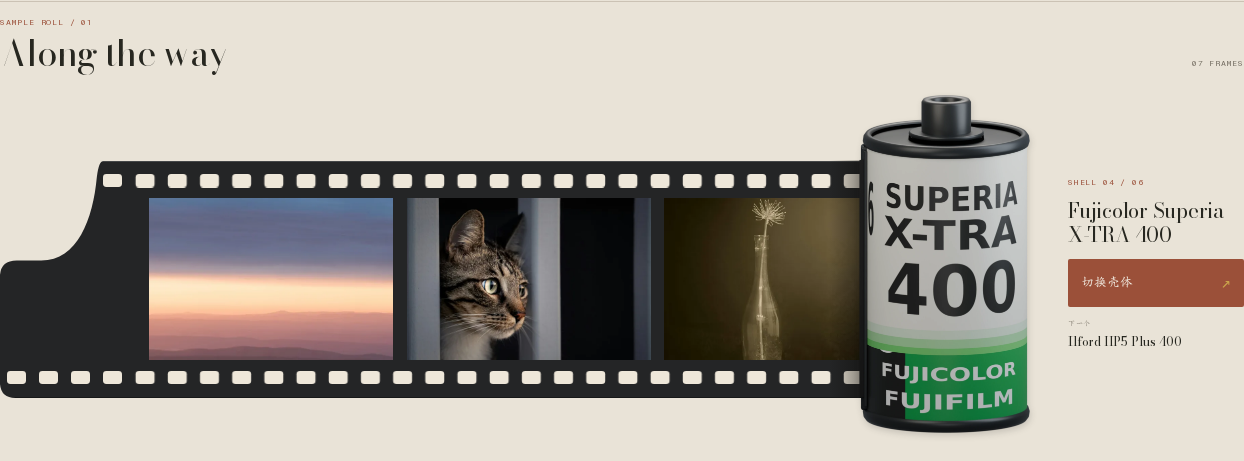
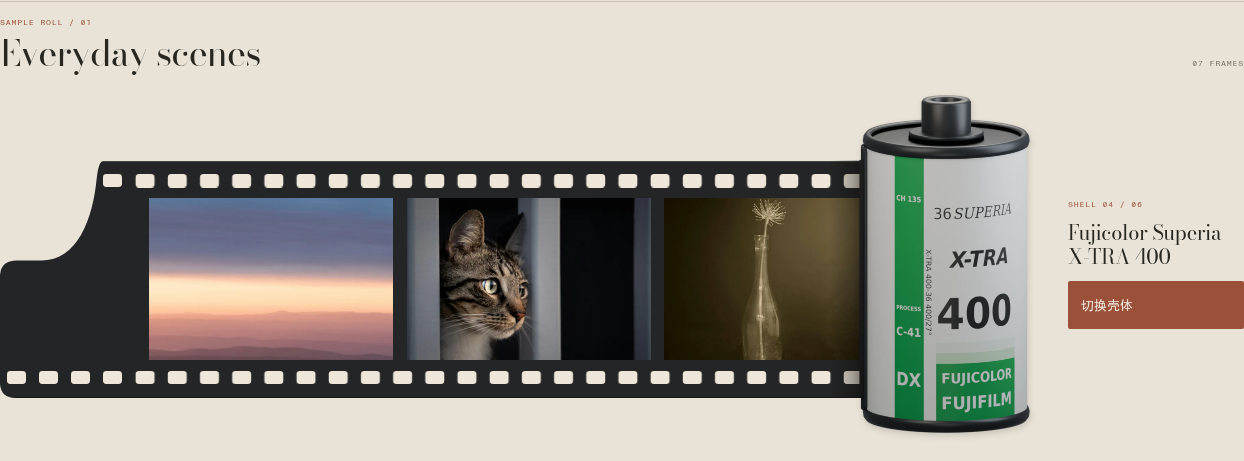
Prepare film-roll 0.1.5 package

diff --git a/README.md b/README.md
@@ -6,25 +6,16 @@ A reusable React component that presents photographs as a scrollable 35mm contac
 
 ### Desktop
 
-![Desktop photo archive using FilmRoll with a Kodak Gold 200 cartridge](https://raw.githubusercontent.com/wlonestar/film-roll/main/docs/screenshots/desktop-kodak-gold.png)
+![Desktop photo archive using FilmRoll with a redesigned Kodak Gold 200 cartridge](https://raw.githubusercontent.com/wlonestar/film-roll/main/docs/screenshots/desktop-kodak-gold.png)
 
 ### Cartridge options
 
-<table>
-  <tr>
-    <th>Fuji Superia 400</th>
-    <th>Light Notes</th>
-  </tr>
-  <tr>
-    <td><img src="https://raw.githubusercontent.com/wlonestar/film-roll/main/docs/screenshots/desktop-fuji-superia.png" alt="FilmRoll with the Fuji Superia 400 cartridge" width="420" /></td>
-    <td><img src="https://raw.githubusercontent.com/wlonestar/film-roll/main/docs/screenshots/desktop-light-notes.png" alt="FilmRoll with the Light Notes cartridge" width="420" /></td>
-  </tr>
-</table>
+![Five 3D film canisters with labels individually reconstructed from photos of the actual Kodak Gold 200, Portra 400, Ektar 100, Fujicolor Superia X-TRA 400, and Ilford HP5 Plus 400 cartridges](https://raw.githubusercontent.com/wlonestar/film-roll/main/docs/screenshots/cartridge-presets.jpg)
 
 ### Mobile
 
 <p align="center">
-  <img src="https://raw.githubusercontent.com/wlonestar/film-roll/main/docs/screenshots/mobile-375.png" alt="FilmRoll responsive layout at a 375-pixel viewport width" width="335" />
+  <img src="https://raw.githubusercontent.com/wlonestar/film-roll/main/docs/screenshots/mobile-375.png" alt="Mobile FilmRoll layout with the redesigned Kodak Gold 200 cartridge" width="335" />
 </p>
 
 These captures show the component inside an example photo archive. The surrounding site and sample photographs are not part of this package.
@@ -87,7 +78,7 @@ To take over frame clicks with a host viewer, pass `onFrameClick`. When provided
 
 Built-in cartridges: `light-notes`, `kodak-gold-200`, `kodak-portra-400`, `kodak-ektar-100`, `fuji-superia-400`, and `ilford-hp5-400`.
 
-The branded shells are independent, stylized reconstructions—not official artwork or exact packaging replicas. Brand names and marks remain the property of their respective owners; no affiliation or endorsement is implied.
+The five branded labels are individually reconstructed from photographs of actual 135 cartridges, not retail-box artwork. They are unofficial interpretations of the pictured editions, not licensed artwork or exact packaging replicas. Brand names and marks remain the property of their respective owners; no affiliation or endorsement is implied.
 
 For custom shells, provide `{ src, geometry }`. The geometry must describe the same image crop and film slit as the rendered asset so the live strip lines up. See the exported `FilmRollGeometry` type for the required metrics.
 
